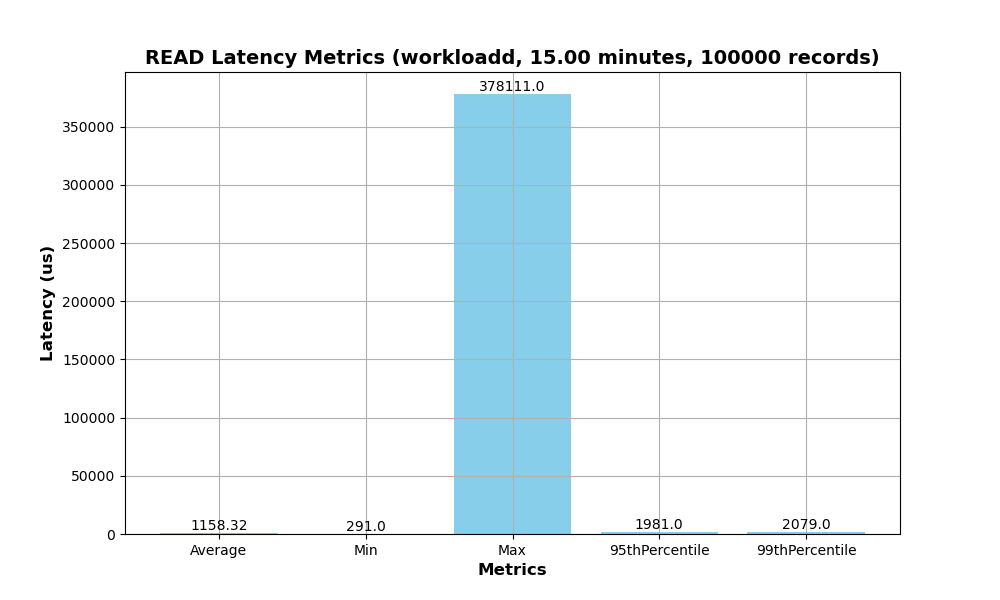
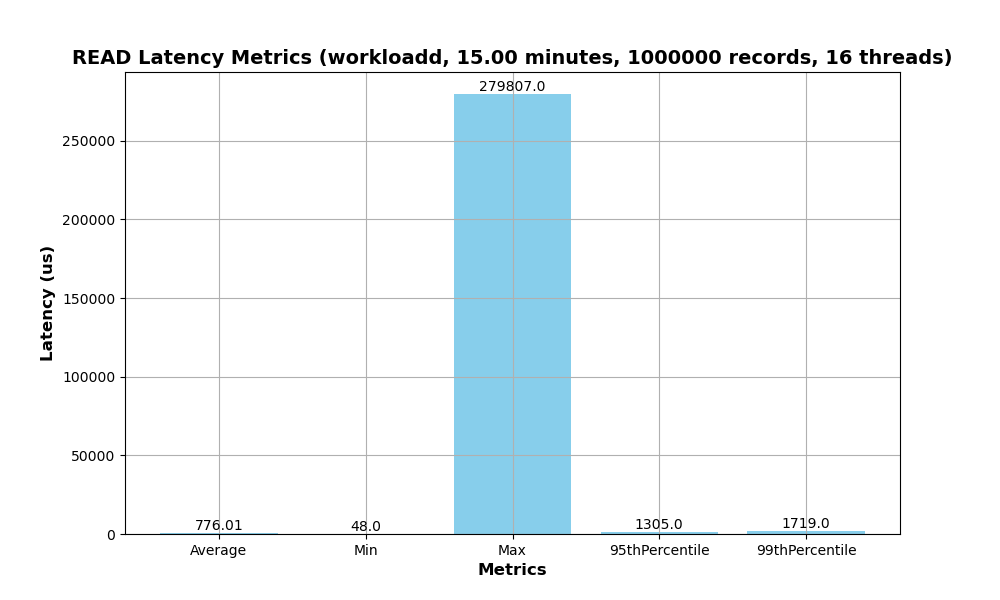
add results and analysis

diff --git a/src/plot_builder.py b/src/plot_builder.py
@@ -12,8 +12,12 @@ def plot_latency(
     configuration,
     operation,
     num_records,
-    output_dir="plots/latency",
+    threads,
+    path
 ):
+    # determine output dir
+    output_dir=f"plots/{path}/latency"
+
     # Check if output directory exists and create if not
     if not os.path.exists(output_dir):
         os.makedirs(output_dir)
@@ -57,7 +61,7 @@ def plot_latency(
     plt.xlabel("Metrics", fontsize=12, fontweight="bold")
     plt.ylabel("Latency (us)", fontsize=12, fontweight="bold")
     plt.title(
-        f"{operation} Latency Metrics ({workload}, {float(duration_seconds)/60:.2f} minutes, {num_records} records)",
+        f"{operation} Latency Metrics ({workload}, {float(duration_seconds)/60:.2f} minutes, {num_records} records, {threads} threads)",
         fontsize=14,
         fontweight="bold",
     )
@@ -77,8 +81,12 @@ def plot_throughput(
     configuration,
     operation,
     num_records,
-    output_dir="plots/throughput",
+    threads,
+    path
 ):
+    # determine output dir
+    output_dir=f"plots/{path}/throughput"
+
     # Create output dir if it doesn't exist
     if not os.path.exists(output_dir):
         os.makedirs(output_dir)
@@ -120,7 +128,7 @@ def plot_throughput(
     plt.xlabel("Metrics", fontsize=12, fontweight="bold")
     plt.ylabel("Throughput (operations)", fontsize=12, fontweight="bold")
     plt.title(
-        f"{operation} Throughput Metrics ({workload}, {float(duration_seconds)/60:.2f} minutes, {num_records} records)",
+        f"{operation} Throughput Metrics ({workload}, {float(duration_seconds)/60:.2f} minutes, {num_records} records, {threads} threads)",
         fontsize=14,
         fontweight="bold",
     )
@@ -138,9 +146,13 @@ def plot_grouped_latency(
     workload,
     operation,
     num_records,
-    directory="output/csv",
-    output_dir="plots/latency",
+    threads,
+    path
 ):
+    # Append sub path to CSV and plot dirs 
+    directory="output/csv/" + path
+    output_dir=f"plots/{path}/latency"
+
     # Check if output directory exists and create if not
     if not os.path.exists(output_dir):
         os.makedirs(output_dir)
@@ -209,7 +221,7 @@ def plot_grouped_latency(
     ax.set_xlabel("Metric", fontsize=12, fontweight="bold")
     ax.set_ylabel("Latency (us)", fontsize=12, fontweight="bold")
     ax.set_title(
-        f"{operation} Latency Metrics by Configuration ({workload}, {float(duration_seconds)/60:.2f} minutes, {num_records} records)",
+        f"{operation} Latency Metrics by Configuration ({workload}, {float(duration_seconds)/60:.2f} minutes, {num_records} records, {threads} threads)",
         fontsize=14,
         fontweight="bold",
     )
@@ -232,9 +244,13 @@ def plot_grouped_throughput(
     workload,
     operation,
     num_records,
-    directory="output/csv",
-    output_dir="plots/throughput",
+    threads,
+    path
 ):
+    # Append sub path to CSV and plot dirs 
+    directory="output/csv/" + path
+    output_dir=f"plots/{path}/throughput"
+
     # Check if output directory exists and create if not
     if not os.path.exists(output_dir):
         os.makedirs(output_dir)
@@ -299,7 +315,7 @@ def plot_grouped_throughput(
     ax.set_xlabel("Metric", fontsize=12, fontweight="bold")
     ax.set_ylabel("Throughput (operations)", fontsize=12, fontweight="bold")
     ax.set_title(
-        f"{operation} Throughput Metrics by Configuration ({workload}, {float(duration_seconds)/60:.2f} minutes, {num_records} records)",
+        f"{operation} Throughput Metrics by Configuration ({workload}, {float(duration_seconds)/60:.2f} minutes, {num_records} records, {threads} threads)",
         fontsize=14,
         fontweight="bold",
     )
@@ -320,15 +336,17 @@ def plot_grouped_throughput(
 if __name__ == "__main__":
     if len(sys.argv) < 6:
         print(
-            "Usage: python3 throughput.py <csv_file> <duration_seconds> <workload> <configuration> <operation> <num_records>"
+            "Usage: python3 throughput.py <csv_file> <duration_seconds> <workload> <configuration> <operation> <num_records> <threads> <path>"
         )
         sys.exit(1)
 
     plot_latency(
-        sys.argv[1], sys.argv[2], sys.argv[3], sys.argv[4], sys.argv[5], sys.argv[6]
+        sys.argv[1], sys.argv[2], sys.argv[3], sys.argv[4], sys.argv[5], sys.argv[6], sys.argv[7], sys.argv[8]
     )
     plot_throughput(
-        sys.argv[1], sys.argv[2], sys.argv[3], sys.argv[4], sys.argv[5], sys.argv[6]
+        sys.argv[1], sys.argv[2], sys.argv[3], sys.argv[4], sys.argv[5], sys.argv[6], sys.argv[7], sys.argv[8]
     )
-    plot_grouped_latency(sys.argv[2], sys.argv[3], sys.argv[5], sys.argv[6])
-    plot_grouped_throughput(sys.argv[2], sys.argv[3], sys.argv[5], sys.argv[6])
+    plot_grouped_latency(sys.argv[2], sys.argv[3], sys.argv[5], sys.argv[6], sys.argv[7], sys.argv[8])
+    plot_grouped_throughput(sys.argv[2], sys.argv[3], sys.argv[5], sys.argv[6], sys.argv[7], sys.argv[8])
+
+# TODO: take num_records and threads from CSV instead reading from command line args

diff --git a/README.md b/README.md
@@ -6,12 +6,11 @@ This program uses YCSB to run latency and throughput benchmarks of Cassandra in 
 - [Installation and Setup](#installation-and-setup)
 - [How-to-run-the-workflow](#how-to-run-the-workflow)
 - [SCAN profiling](#scan-profiling)
-- [READ profiling](#read-profiling)
 
 ## Installation and Setup
 
 ### Docker
-Install [docker](https://docs.docker.com/get-docker/) to run Cassandra nodes inside isolated containers. Make sure docker is set up.
+Install [docker](https://docs.docker.com/get-docker/). We use docker to run all programs inside isolated containers. Make sure docker is set up.
 
 ### YCSB
 Install YCSB in the root directory of this project by running:
@@ -23,16 +22,16 @@ cd ycsb-0.17.0
 
 ## How to run the workflow
 We will run our workflow using the `run_workflow.sh` script. This script does the following: 
-1. Starts a cassandra instance on a docker container and performs setup
-2. Runs the specified benchmark
+1. Starts a cassandra node on a docker container and sets up cassandra with the specified configurations
+2. Runs the specified benchmark from a docker container
 3. Processes the benchmark data and creates visualizations
 4. Cleans up the container and image used.
 
-> Note: On each run of the workflow script, it will attempt to make a group plot comparing data across all data files in the `output` directory, which aims to create a visualization to compare different configurations. Also, each new benchmark for a configuration will overwrite the previous benchmark data for that configuration.
+> Note: each new benchmark for a configuration will overwrite the previous benchmark data for that configuration. On each run of the workflow script, it will attempt to make a group plot comparing data across all CSV files in the `output` directory, which creates a visualization to compare different configurations, so make sure the data files come from runs with the same, YCSB run configurations, but different cassandra configurations.
 
 The usage of the script is:
 ```
-./run_workflow.sh [-c] <config> <duration_seconds> <operation> <workload> <num_records>
+./run_workflow.sh [-c] <config> <duration_seconds> <operation> <workload> <num_records> <threads>
 ```
 where:
 - `-c` is the optional flag specifying whether to cleanup and remove images and containers created by the workflow run
@@ -41,98 +40,8 @@ where:
 - `operation` is the operation we are benchmarking using YCSB (e.g. SCAN, READ, INSERT, etc)
 - `workload` is the workload we are using from YCSB (e.g. workloada, workloadb, workloadc, etc)
 - `num_records` is the number of records to load for the benchmark
+- `threads` is the number of threads to use for YCSB to feed operations to cassandra
 
 All arguments are required in the order above.
 
-The raw data from the benchmarks is written to the directory `/output/ycsb`. The visualizations plotted from the data are located in the directory `/plots`.
-
-## SCAN profiling
-We compare the benchmarks of several configurations for the SCAN operation:
-- Default
-- Use LCS (leveled compaction strategy)
-- Use row cache
-- Use both LCS and row cache
-
-For the row cache, we set the limit to 10 GB, and cache all keys and rows per partition. We test with 100,000 records.
-
-Here is the setup that we use:
-- 1 node cluster in Docker container
-- Apache Cassandra 3.11.17 release
-- 16 GB RAM
-
-We run the benchmark on `workloade` which has a 95:5 SCAN to INSERT ratio, but set the number of operations to the max and run for 15 minutes.
-
-### Running the benchmarks
-We run the benchmark workflow for each of the 4 configurations, profiling the SCAN operation for workload e using: 
-```
-chmod +x run_workflow.sh
-./run_workflow.sh -c default 900 SCAN workloade 1000
-./run_workflow.sh -c lcs 900 SCAN workloade 1000
-./run_workflow.sh -c rowcache 900 SCAN workloade 1000
-./run_workflow.sh -c lcs-rowcache 900 SCAN workloade 1000
-```
-
-### Results
-Below are the results comparing the latencies (mean, P95, P99) for each configuration.
-
-![Grouped Latency Plot](./plots/read-only-do-not-modify/scan-e/latency/grouped-latency-plot.png)
-![Grouped Throughput Plot](./plots/read-only-do-not-modify/scan-e/throughput/grouped-throughput-plot.png)
-
-#### Average Latency and Throughput
-We can see that the default configuration has the highest average latency and 2nd to worst throughput, which implies that it's the worst, not by any significant margin, without any specific optimizations for the usage pattern. 
-
-Using LCS compaction had a slight improvement in latency, but didn't improve throughput.
-
-Enabling the row cache actually worsened latency.
-
-#### P95 and P99 Latency and Throughput
-Again, enabling row cache worsened latency a bit. 
-
-LCS also once again appears to have a slight latency performance improvement compared to the base default configuration. 
-
-#### Discussion
-The row cache in cassandra is ideal for point queries that randomly access by key, or read operations that often read the same rows. Thus, row caching is not optimized for sequential scan operations. Enabling row caching could be causing some extra overhead. However, I ran `node exec -it cassandra nodetool info` several times, and noticed that the rowcache had 0% utilization and 0% hit rate, so it could be due to something else internally or to just performance variation.
-
-LCS performed slightly better that the default. LCS is optimized to improve query performance by reducing the number of SSTables accessed from disk, which could explain the slight latency improvement.
-
-Using both LCS and rowcache slightly worsened latency, except for in the P99 metric. By not much, it had a miniscule increase in throughput.
-
-## READ profiling
-We compare the benchmarks of several configurations for the READ operation:
-- Default
-- Use LCS (leveled compaction strategy)
-- Use row cache
-- Use both LCS and row cache
-
-For the row cache, we set the limit to 10 GB, and cache all keys and rows per partition. We test with 100,000 records.
-
-Here is the setup that we use:
-- 1 node cluster in Docker container
-- Apache Cassandra 3.11.17 release
-- 16 GB RAM
-
-We run the benchmark on `workloadd` which has a 95:5 READ to INSERT ratio, but set the number of operations to the max and run for 15 minutes.
-
-### Running the benchmarks
-We run the benchmark workflow for each of the 4 configurations, profiling the READ operation for workload d using: 
-```
-chmod +x run_workflow.sh
-./run_workflow.sh -c default 900 READ workloadd 1000
-./run_workflow.sh -c lcs 900 READ workloadd 1000
-./run_workflow.sh -c rowcache 900 READ workloadd 1000
-./run_workflow.sh -c lcs-rowcache 900 READ workloadd 1000
-```
-
-### Results
-Below are the results comparing the latencies (mean, P95, P99) for each configuration.
-
-#### Average Latency and Throughput
-
-
-
-
-#### P95 and P99 Latency and Throughput
-
-#### Discussion
-
-I ran `node exec -it cassandra nodetool info` several times with rowcache enabled and set to ALL keys and rows per partition, the hit rate hovered around 85+%.
+The raw data from the benchmarks is written to the directory `/output/ycsb/`. The visualizations plotted from the data are located in the directory `/plots/`.

diff --git a/RESULTS.md b/RESULTS.md
@@ -1,0 +1,92 @@
+# SCAN profiling (workload e)
+I compared the benchmarks of several configurations for the SCAN operation:
+- Default
+- Use LCS (leveled compaction strategy)
+- Use row cache
+- Use both LCS and row cache
+
+For the row cache, I set the limit to 10 GB, and cache all rows per partition. I used the default scan size of 100 records and used 16 threads for YCSB.
+
+Here is the setup that I used:
+- 1 node cluster in Docker container
+- Apache Cassandra 3.11.17 release
+- 16 GB RAM
+- 8 CPUs
+- 4 GB heap
+- 512 GB SSD
+
+I ran the benchmark on `workloade` which has a 95:5 SCAN to INSERT ratio and a request distribution of zipfian, and set the number of operations to the max and ran for 15 minutes. I ran the benchmark workflow for each of the 4 configurations, with 1000000 records, profiling the SCAN operation for workload e using: 
+```
+chmod +x run_workflow.sh
+./run_workflow.sh -c default 900 SCAN workloade 1000000 16
+./run_workflow.sh -c rowcache 900 SCAN workloade 1000000 16
+./run_workflow.sh -c lcs 900 SCAN workloade 1000000 16
+./run_workflow.sh -c lcs-rowcache 900 SCAN workloade 1000000 16
+```
+
+## Results
+Below are the plots of the results I got for the benchmarks for both 1 million and 1 thousand records.
+
+![Grouped Latency Plot](./plots/read-only-do-not-modify/scan-e/latency/grouped-latency-plot.png)
+![Grouped Throughput Plot](./plots/read-only-do-not-modify/scan-e/throughput/grouped-throughput-plot.png)
+
+For 1 million records, it seems as if utilizing LCS provided a very negligible improvement in latency and throughput. All other configurations didn't provide much improvement, or worsened latency and throughput.
+
+### Discussion
+The row cache in cassandra is ideal for point queries that randomly access by key, or read operations that often read the same rows. Thus, row caching is not optimized for sequential scan operations. I ran `node exec -it cassandra nodetool info` several times, and noticed that the rowcache had 0% utilization and 0% hit rate despite being enabled and having the 10 GB allocated. Based on what I've read, scan operations do not populate the row cache.
+
+LCS organizes data into levels where each level contains non-overlapping SSTables. Each subsequent level is several times larger than the previous one. Most reads can be satisfied by searching only a few levels, typically starting from the smallest level. LCS theoretically and in practice should improve the number of SSTables touched during random reads. However if the scans spanned across multiple partitions of cross SSTables, using LCS may not improve performance like in this case.
+
+# Follow up: READ profiling with workload d
+Since the row cache is meant for random reads and it did not yield improvements for the SCAN heavy workload, I ran `workloadd` which has a 95:5 READ to INSERT ratio and a request distribution of latest, and set the number of operations to the max and ran for 15 minutes:
+```
+chmod +x run_workflow.sh
+./run_workflow.sh -c default 900 READ workloadd 1000000 16
+./run_workflow.sh -c rowcache READ SCAN workloadd 1000000 16
+./run_workflow.sh -c lcs 900 READ workloadd 1000000 16
+./run_workflow.sh -c lcs-rowcache 900 READ workloadd 1000000 16
+```
+
+## Results
+Below are the plots of the results I got for the benchmark.
+
+![Grouped Latency Plot](./plots/read-only-do-not-modify/read-d/latency/grouped-latency-plot.png)
+![Grouped Throughput Plot](./plots/read-only-do-not-modify/read-d/throughput/grouped-throughput-plot.png)
+
+From the results it seems using LCS compaction improves throughput by a tiny bit, but worsens latency by a tiny bit. Using the row cache seems to decrease throughput a bit and increase latency a bit.
+
+### Discussion
+In workload d, the request distribution is set to latest. Thus, recent records being read are likely still in the memtable which is why using the row cache did not improve throughput or performance since it didn't help reduce disk I/O. 
+
+If reads were served from in memory memtables, using LCS wouldn't have improved our performance.
+
+# Follow up: READ profiling (workload c)
+Since the request distribution of latest didn't seem to be fit for LCS or row caching, I ran the benchmark on `workloadc` which has a 100% READ ratio and a request distribution of zipfian, and set the number of operations to the max and ran for 15 minutes:
+
+```
+chmod +x run_workflow.sh
+./run_workflow.sh -c default 900 READ workloadc 1000000 16
+./run_workflow.sh -c rowcache 900 READ workloadc 1000000 16
+./run_workflow.sh -c lcs 900 READ workloadc 1000000 16
+./run_workflow.sh -c lcs-rowcache 900 READ workloadc 1000000 16
+```
+
+### Results
+Below are the results I got from the benchmark:
+
+![Grouped Latency Plot](./plots/read-only-do-not-modify/read-c/latency/grouped-latency-plot.png)
+![Grouped Throughput Plot](./plots/read-only-do-not-modify/read-c/throughput/grouped-throughput-plot.png)
+
+From the results it seems using LCS compaction improves both throughput and latency a good chunk (around 15-20% on average). 
+
+However, I was very surprised to see that enabling the row cache worsened throughput, as well as average latency. I made sure the row cache was working by running `docker exec -it nodetool info`, and it indicated that that cache hit ratio was around 90% so records were definitely not hitting disk. 
+```
+Row Cache : entries 999314, size 1.19 GiB, capacity 9.77 GiB, 14910802 hits, 15910116 requests, 0.937 recent hit rate, 0 save period in seconds
+```
+
+When i ran `docker exec -it nodetool tablstats`, the ycsb table used for the benchmark also had far less bloom filter false and false positives after enabling the row cache, and less bloom filter use in general due to requests being served from the row cache. 
+
+#### Discussion
+I'm really not sure why the row cache reduced read performance despite having a very high hit ratio. I will have to run cassandra with tracing to understand why. running `docker exec -it nodetool gcstats` indicated that the garbage collector ran for typically 5 or less seconds during the entire 15 minutes.
+
+LCS improving workload c of pure reads using a zipfian distribution makes sense since LCS helps minimize read amplification on disk due to the non-overlapping layered SSTable layout.
